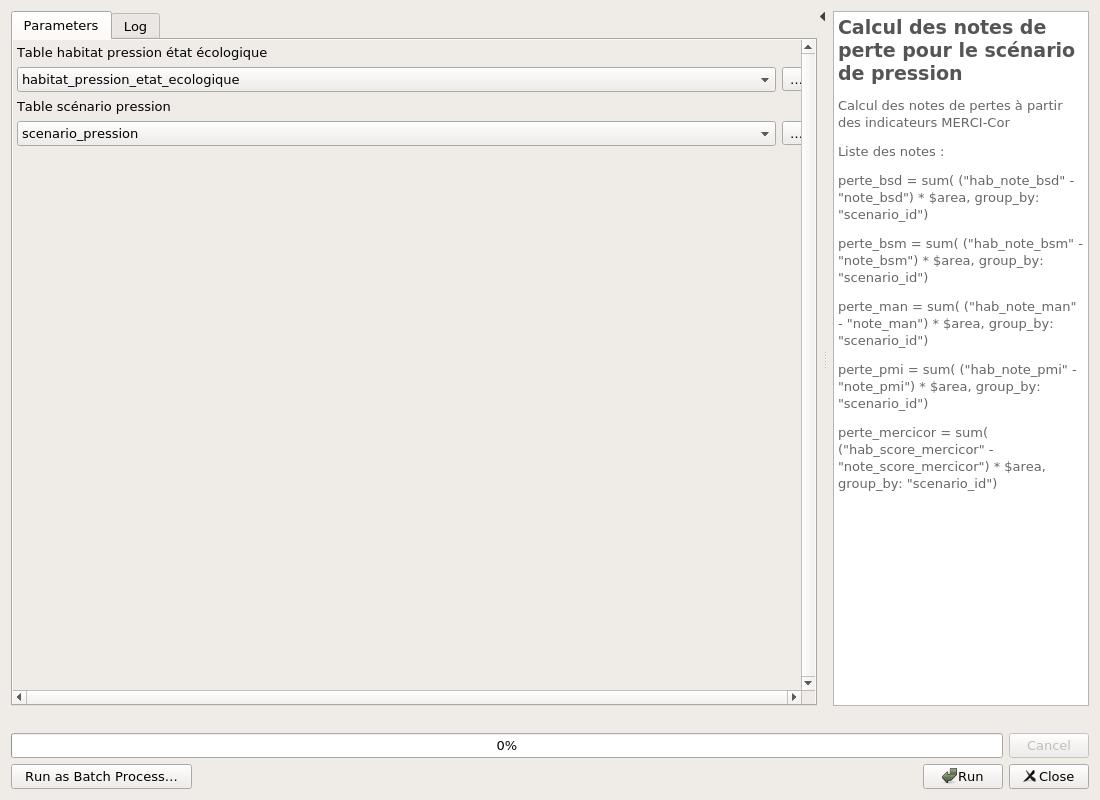
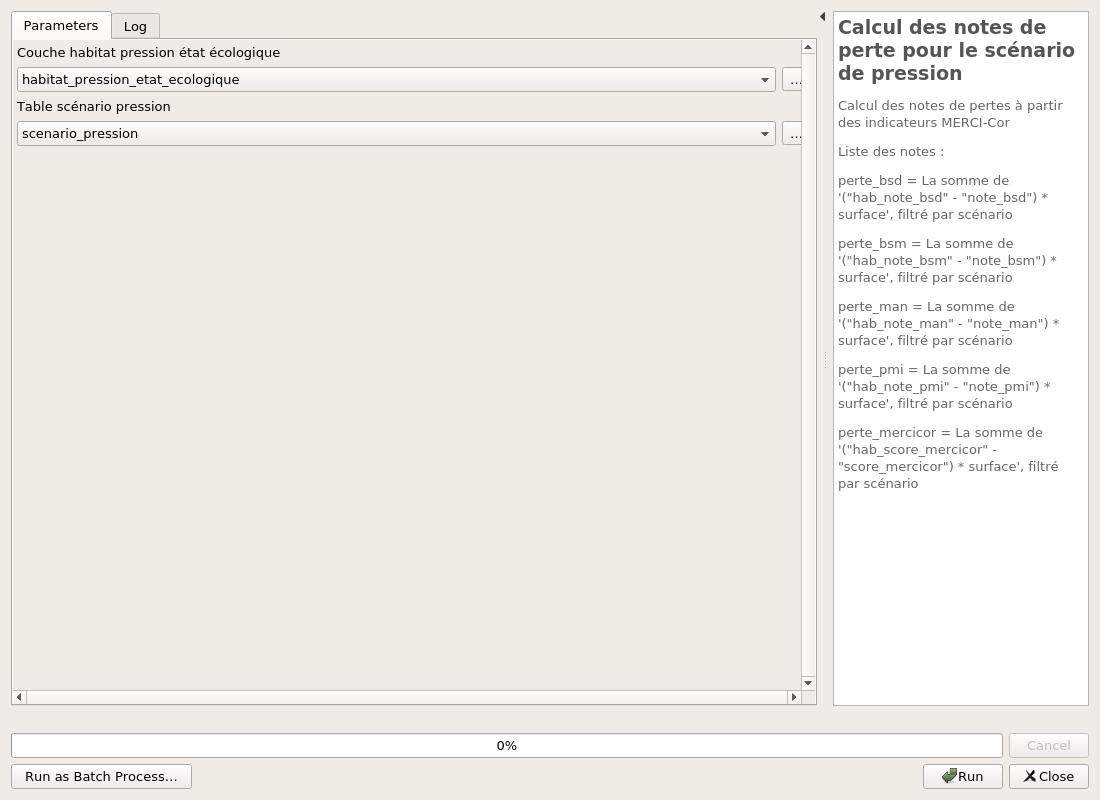
Docs - Update Processing documentation

Changed region(s): [[0.7727, 0.2188, 0.9891, 0.625], [0.0309, 0.0625, 0.2473, 0.0938]]

diff --git a/mercicor/processing/calcul/calcul_pertes.py b/mercicor/processing/calcul/calcul_pertes.py
@@ -68,7 +68,7 @@ class CalculPertes(CalculAlgorithm):
         self.addParameter(
             QgsProcessingParameterVectorLayer(
                 self.HABITAT_PRESSION_ETAT_ECOLOGIQUE,
-                "Table habitat pression état écologique",
+                "Couche habitat pression état écologique",
                 [QgsProcessing.TypeVectorPolygon],
                 defaultValue='habitat_pression_etat_ecologique',
             )
@@ -85,7 +85,7 @@ class CalculPertes(CalculAlgorithm):
 
     def processAlgorithm(self, parameters, context, feedback):
         hab_etat_ecolo = self.parameterAsVectorLayer(
-           parameters, self.HABITAT_PRESSION_ETAT_ECOLOGIQUE, context)
+            parameters, self.HABITAT_PRESSION_ETAT_ECOLOGIQUE, context)
         scenario_pression = self.parameterAsVectorLayer(parameters, self.SCENARIO_PRESSION, context)
 
         scenario_pression.startEditing()

diff --git a/docs/processing/README.md b/docs/processing/README.md
@@ -99,11 +99,11 @@ OUTPUT|output|VectorLayer||
 Calcul des notes de pertes à partir des indicateurs MERCI-Cor
 
 Liste des notes :
-perte_bsd = sum( ("hab_note_bsd" - "note_bsd") * $area, group_by: "scenario_id")
-perte_bsm = sum( ("hab_note_bsm" - "note_bsm") * $area, group_by: "scenario_id")
-perte_man = sum( ("hab_note_man" - "note_man") * $area, group_by: "scenario_id")
-perte_pmi = sum( ("hab_note_pmi" - "note_pmi") * $area, group_by: "scenario_id")
-perte_mercicor = sum( ("hab_score_mercicor" - "note_score_mercicor") * $area, group_by: "scenario_id")
+perte_bsd = La somme de '("hab_note_bsd" - "note_bsd") * surface', filtré par scénario
+perte_bsm = La somme de '("hab_note_bsm" - "note_bsm") * surface', filtré par scénario
+perte_man = La somme de '("hab_note_man" - "note_man") * surface', filtré par scénario
+perte_pmi = La somme de '("hab_note_pmi" - "note_pmi") * surface', filtré par scénario
+perte_mercicor = La somme de '("hab_score_mercicor" - "score_mercicor") * surface', filtré par scénario
 
 
 ![algo_id](./mercicor-calcul_pertes.jpg)
@@ -112,7 +112,7 @@ perte_mercicor = sum( ("hab_score_mercicor" - "note_score_mercicor") * $area, gr
 
 | ID | Description | Type | Info | Required | Advanced | Option |
 |:-:|:-:|:-:|:-:|:-:|:-:|:-:|
-HABITAT_PRESSION_ETAT_ECOLOGIQUE|Table habitat pression état écologique|VectorLayer||✓||Default: habitat_pression_etat_ecologique <br> Type: TypeVectorPolygon <br>|
+HABITAT_PRESSION_ETAT_ECOLOGIQUE|Couche habitat pression état écologique|VectorLayer||✓||Default: habitat_pression_etat_ecologique <br> Type: TypeVectorPolygon <br>|
 SCENARIO_PRESSION|Table scénario pression|VectorLayer||✓||Default: scenario_pression <br> Type: TypeVectorAnyGeometry <br>|
 
 
